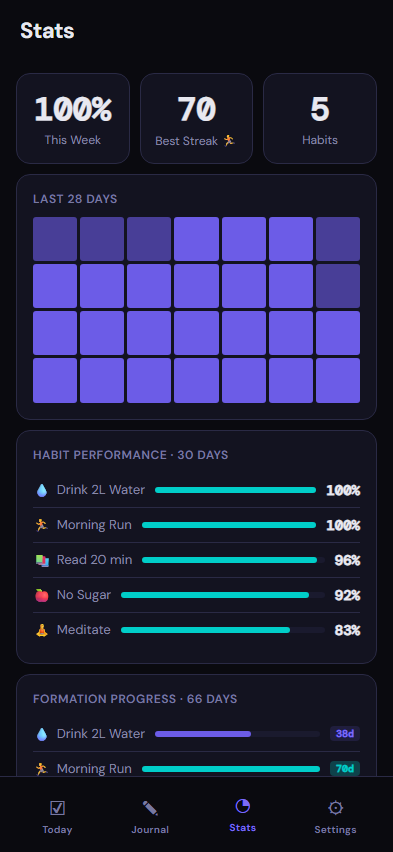
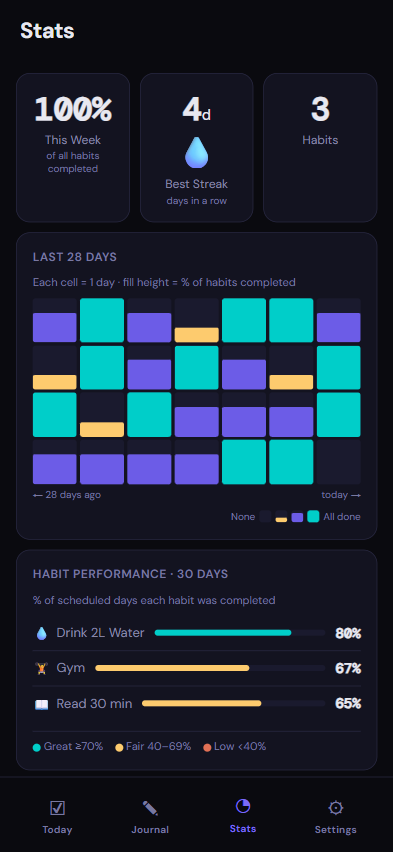
docs: retake all screenshots after stats/journal/flags/sex UI changes
Refreshed the full canonical screenshot set to reflect all recent UI work:
- Stats: water-level heatmap, formation journey, performance colour legend
- Journal: step-by-step flow (step 1 + summary with habit suggestions)
- Onboarding/Settings: SVG flag chips, 👨/👩 sex buttons

Removed temp files (screenshot-stats-new, screenshot-lang-settings-new,
screenshot-journal-step1). CLAUDE.md now lists the full canonical set so
all screenshots are always retaken together on any UI change.

diff --git a/CLAUDE.md b/CLAUDE.md
@@ -95,6 +95,9 @@ Never change the storage key without migration — users must not lose their hab
 **Always do all of these before committing:**
 
 1. **Run tests**: `yarn test` — all projects (Desktop, Mobile, Tablet) must pass
-2. **Update screenshots**: if any UI change was made (layout, colours, new screens, copy), retake the affected screenshots in `docs/` using Playwright at 393×852 (mobile) and include them in the same commit
+2. **Update screenshots**: if any UI change was made (layout, colours, new screens, copy), retake **all** affected screenshots in `docs/` using Playwright and include them in the same commit. Canonical set:
+   - Mobile 393×852: `screenshot-onboarding.png`, `screenshot-tracker.png`, `screenshot-add-habit.png`, `screenshot-journal.png`, `screenshot-journal-summary.png`, `screenshot-stats.png`, `screenshot-settings.png`
+   - Desktop 1280×800: `desktop-preview.png`, `desktop-stats.png`, `desktop-journal.png`, `desktop-settings.png`, `desktop-modal.png`
+   - Tablet: `tablet-preview.png`
 3. **Check PageSpeed**: download the latest Lighthouse artifact from the most recent CI run (`gh run download <run-id> --name lighthouse-results --dir /tmp/lh-results`) and verify no new audit regressions before committing
 4. **Bump version key**: if `app.js`, `styles.css`, `suggestions.js`, or `index.html` changed, increment the version in both `app.js` localStorage key and `CACHE` in `sw.js` to the same value (e.g. both `habitio_v4` → `habitio_v5`), and add a migration read in `load()` for the old key
